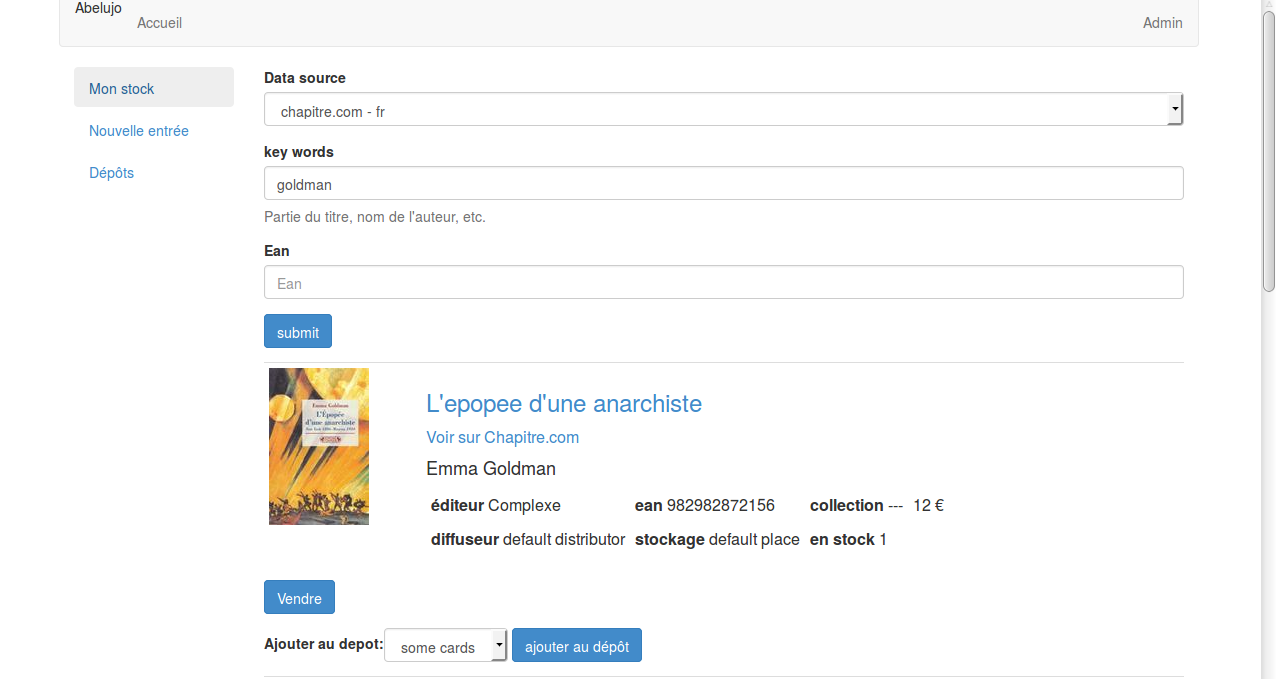
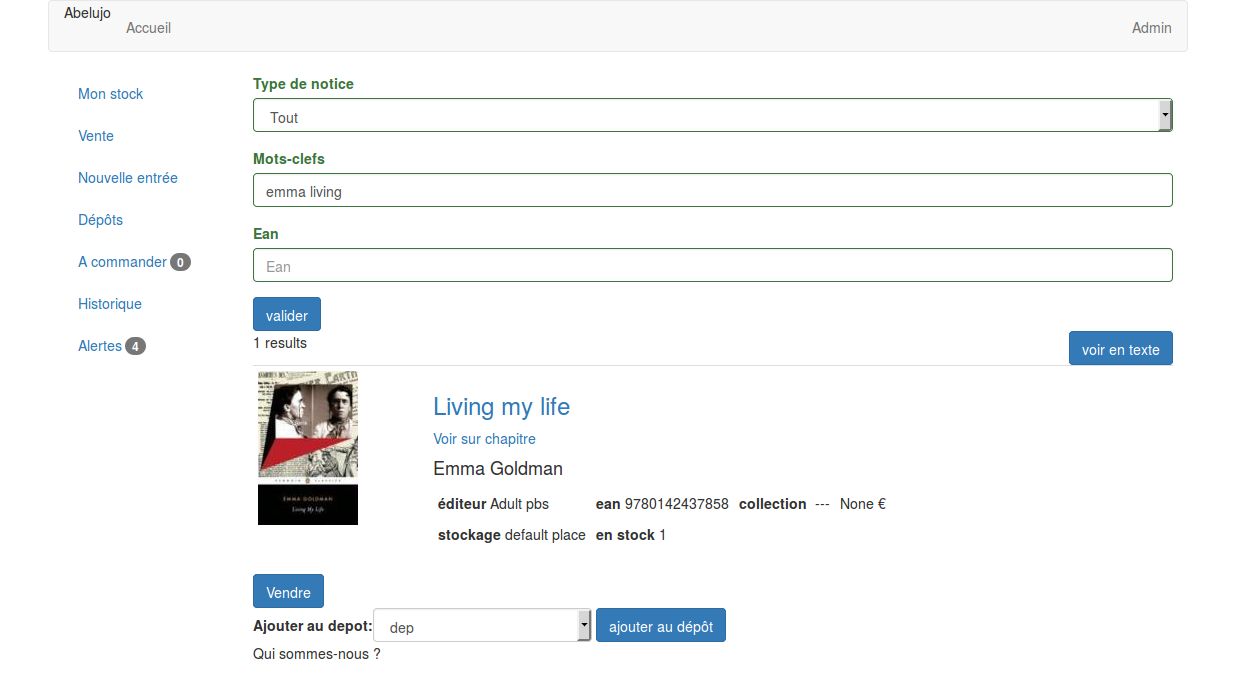
READMEs, img ++.

diff --git a/README.md b/README.md
@@ -13,8 +13,10 @@ This project is at its debut stage. However it is already possible to:
 -   look up for **CDs** (via [discogs.com](http://www.discogs.com/))
 -   choose how many exemplaries you add to your stock, edit the cards,
     search a book in your database
--   choose how many copies you put in what place
--   sell a book.
+-   use many places
+-   manage deposits and distributors
+-   sell a book, resolve conflicts of distributors
+-   register cards in baskets
 -   **import data from a LibreOffice Calc file** (.ods). See the [user documentation](doc/user/index.rst "user doc").
 
 We base our work on the software specifications from the Ruche project

diff --git a/README_fr.md b/README_fr.md
@@ -8,9 +8,9 @@ Projet actuellement en chantier. Il est néanmoins possible de:
 -   rechercher des **CDs** (via [discogs.com](http://www.discogs.com),
 -   choisir combien d'exemplaires sont à ajouter dans le stock, les
     bouger de lieu,
--   chercher un titre dans son stock et le marquer comme vendu (ce qui
-    décrémente de 1 son nombre d'exemplaires).
-- créer des dépôts
+-   chercher dans son stock,
+-   effectuer des ventes,
+-   créer des dépôts, gérer les conflits à la vente,
 -   **importer des données** depuis un fichier **LibreOffice Calc** (.ods). Voir la [documentation utilisateur](doc/french/index.rst "doc utilisateur").
 
 
